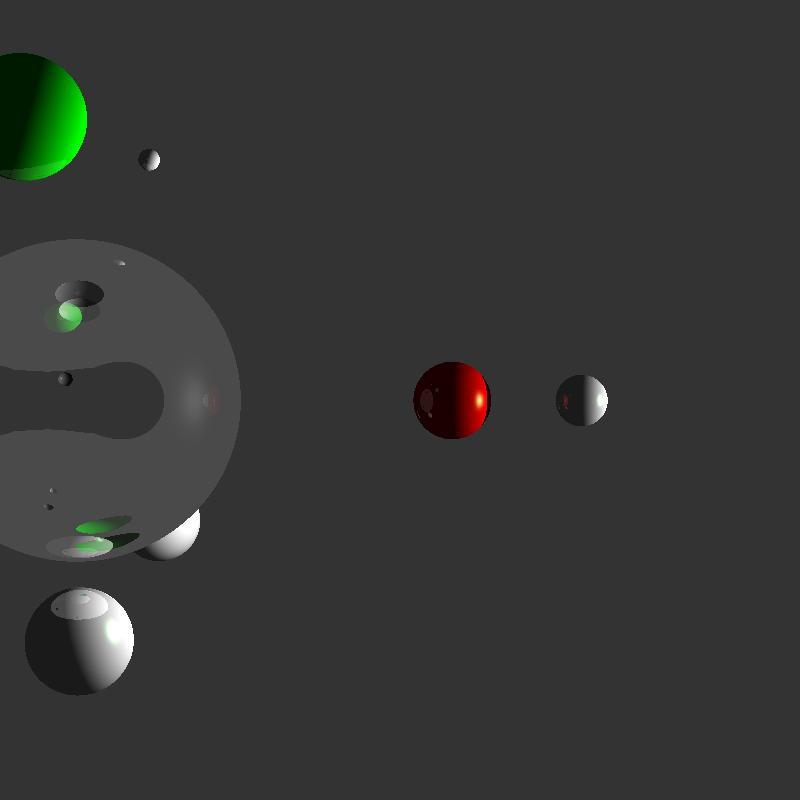
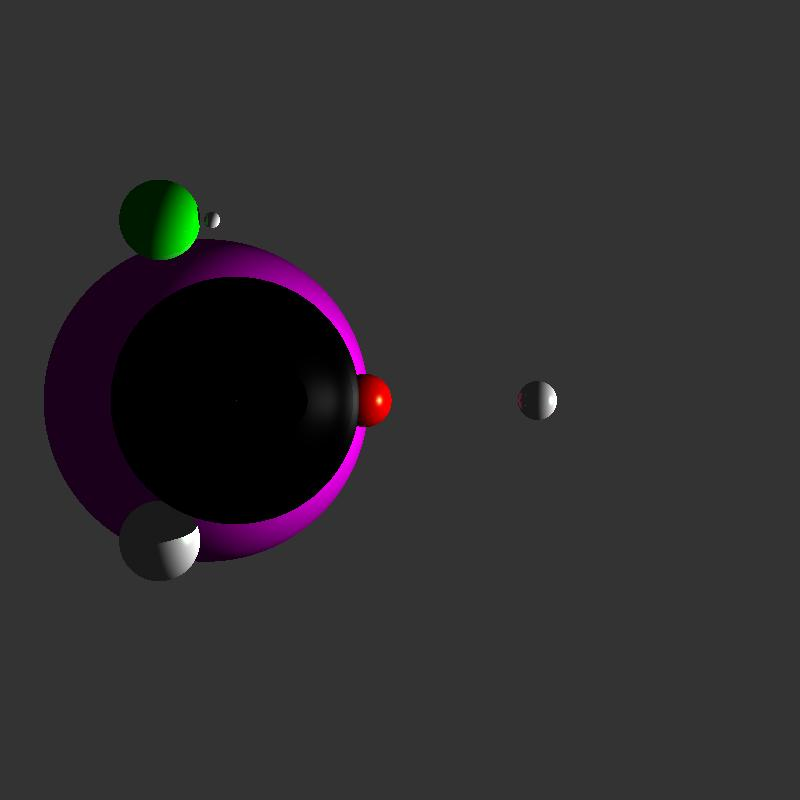
coomit

Changed region(s): [[0.0312, 0.1875, 0.625, 0.875], [0.0, 0.0625, 0.125, 0.25], [0.6562, 0.4688, 0.7812, 0.5312]]

diff --git a/RayTracer/src/shader/RefractionShader.java b/RayTracer/src/shader/RefractionShader.java
@@ -1,5 +1,6 @@
 package shader;
 
+import graphic_object.GraphicObject.ShapeType;
 import raytracer.CollisionInstance;
 import raytracer.Ray;
 import raytracer.RayTracer;
@@ -15,15 +16,25 @@ public class RefractionShader extends Shader{
 	@Override
 	public RColor doShader(RayTracer tracer, CollisionInstance collisionInfo, Ray _ray, int currentDepth) {
 		Vector normal = collisionInfo.getClosestObject().getNormal(collisionInfo.getIntersection()).normalize();
-		
-		//float r = collisionInfo.getClosestObject().getRefractionMaterial();
-		//float c = normal.multiplyByConstant(-1.0f).dotProduct(_ray.getRay().normalize());
-		//Vector refraction = _ray.getRay().normalize().multiplyByConstant(r);
-		//Vector a = normal.multiplyByConstant((r*c - (float)Math.sqrt(1 - (float)Math.pow(r, 2) * (1 - (float)Math.pow(c, 2)))));
-		//refraction = refraction.add(a);
+
 		Vector reflection = null;
 		if(!_ray.isInsideShape()){
 			// ===================  I need to be sure I'm doing this right.
+			float numerator = normal.dotProduct(_ray.getRay().normalize().invert());
+			float denominator = normal.getMagnitude() * _ray.getRay().normalize().invert().getMagnitude();
+			float angle = (float)Math.acos(numerator / denominator);
+			
+			Vector M = normal.multiplyByConstant((float)Math.cos(angle));
+			M = M.subtract(_ray.getRay().normalize().invert());
+			M = M.divideByConstant((float)Math.sin(angle)).normalize();
+			
+			float angleOfRefraction = (float)Math.asin(collisionInfo.getClosestObject().getRefractionMaterialOutside() * (float)Math.sin(angle) / collisionInfo.getClosestObject().getRefractionMaterialInside());
+			
+			Vector T = M.multiplyByConstant((float)Math.sin(angleOfRefraction));
+			reflection = T.subtract(normal.multiplyByConstant((float)Math.cos(angleOfRefraction))).normalize();
+			
+		}
+		else{
 			float numerator = normal.dotProduct(_ray.getRay().normalize());
 			float denominator = normal.getMagnitude() * _ray.getRay().normalize().getMagnitude();
 			float angle = (float)Math.acos(numerator / denominator);
@@ -32,15 +43,11 @@ public class RefractionShader extends Shader{
 			M = M.subtract(_ray.getRay().normalize());
 			M = M.divideByConstant((float)Math.sin(angle)).normalize();
 			
-			float angleOfRefraction = (float)Math.asin((float)Math.sin(angle) / collisionInfo.getClosestObject().getRefractionMaterial());
+			float angleOfRefraction = (float)Math.asin(collisionInfo.getClosestObject().getRefractionMaterialInside() * (float)Math.sin(angle) / collisionInfo.getClosestObject().getRefractionMaterialOutside());
 			
-			// THIS SHIT AINT WORKING...VVVVVVVVVVVVVVVVVVVVVVVVVVVVVVVVVVVVVVV
 			Vector T = M.multiplyByConstant((float)Math.sin(angleOfRefraction));
-			reflection = T.subtract(normal.multiplyByConstant((float)Math.cos(angleOfRefraction))).normalize();
-		}
-		else{
-			// ============  need to figure out how to cast the right ray.
-			reflection = normal;
+			reflection = T.subtract(normal.multiplyByConstant((float)Math.cos(angleOfRefraction)));
+
 		}
 		Ray transmissionRay = new Ray();
 		transmissionRay.setRay(reflection);
@@ -49,11 +56,15 @@ public class RefractionShader extends Shader{
 		transmissionRay.setInitialPos(collisionInfo.getIntersection());
 		transmissionRay.setType(RayType.TRANSMISSION);
 		
-		if(!_ray.isInsideShape()){
+		///transmissionRay.setPreviousRay(_ray.getRay());
+		
+		if(!_ray.isInsideShape() && collisionInfo.getClosestObject().getShapeType() == ShapeType.SPHERE){
 			transmissionRay.setInsideShape(true);
 		}
+		RColor remainingReflection = collisionInfo.getClosestObject().getReflective().substractConstantByColor(1.0f);
 		
-		return tracer.rayTrace(transmissionRay, currentDepth);
+		//return collisionInfo.getClosestObject().getTransparency().multiply(tracer.rayTrace(transmissionRay, currentDepth));
+		return collisionInfo.getClosestObject().getTransparency().multiply(tracer.rayTrace(transmissionRay, currentDepth));
 	}
 
 }

diff --git a/RayTracer/src/graphic_object/GraphicObject.java b/RayTracer/src/graphic_object/GraphicObject.java
@@ -29,7 +29,8 @@ public abstract class GraphicObject{
 	
 	private float phongConstant;
 	
-	private float refractionMaterial;
+	private float refractionMaterialInside;
+	private float refractionMaterialOutside;
 
 	
 	/**
@@ -44,7 +45,8 @@ public abstract class GraphicObject{
 		this.specularHighlight = new RColor(0.0f, 0.0f, 0.0f);
 		this.setTransparency(new RColor(0.0f, 0.0f, 0.0f));
 		this.phongConstant = 0.0f;
-		this.refractionMaterial = 0.0f;
+		this.refractionMaterialInside = 0.0f;
+		this.refractionMaterialOutside = 0.0f;
 	}
 	
 	/**
@@ -103,19 +105,27 @@ public abstract class GraphicObject{
 		this.massType = massType;
 	}
 
-	public float getRefractionMaterial() {
-		return refractionMaterial;
-	}
-
-	public void setRefractionMaterial(float refractionMaterial) {
-		this.refractionMaterial = refractionMaterial;
-	}
-
 	public RColor getTransparency() {
 		return transparency;
 	}
 
 	public void setTransparency(RColor transparency) {
 		this.transparency = transparency;
+	}
+
+	public float getRefractionMaterialInside() {
+		return refractionMaterialInside;
+	}
+
+	public void setRefractionMaterialInside(float refractionMaterialInside) {
+		this.refractionMaterialInside = refractionMaterialInside;
+	}
+
+	public float getRefractionMaterialOutside() {
+		return refractionMaterialOutside;
+	}
+
+	public void setRefractionMaterialOutside(float refractionMaterialOutside) {
+		this.refractionMaterialOutside = refractionMaterialOutside;
 	}
 }

diff --git a/RayTracer/src/util/SceneParser.java b/RayTracer/src/util/SceneParser.java
@@ -254,8 +254,10 @@ public class SceneParser {
 					break;
 				
 				case "Refraction":
-					float refraction = Float.parseFloat(reader.next());
-					s.setRefractionMaterial(refraction);
+					float refractionInside = Float.parseFloat(reader.next());
+					float refractionOutside = Float.parseFloat(reader.next());
+					s.setRefractionMaterialInside(refractionInside);
+					s.setRefractionMaterialOutside(refractionOutside);
 					break;
 					
 				default:
@@ -350,8 +352,10 @@ public class SceneParser {
 					break;
 				
 				case "Refraction":
-					float refraction = Float.parseFloat(reader.next());
-					p.setRefractionMaterial(refraction);
+					float refractionInside = Float.parseFloat(reader.next());
+					float refractionOutside = Float.parseFloat(reader.next());
+					p.setRefractionMaterialInside(refractionInside);
+					p.setRefractionMaterialOutside(refractionOutside);
 					break;
 					
 				default:

diff --git a/RayTracer/src/driver/Driver.java b/RayTracer/src/driver/Driver.java
@@ -11,7 +11,7 @@ public class Driver {
 		
 		//Scene s = SceneParser.buildScene("scenes//SceneII.rayTracing");
 		Scene s = SceneParser.buildScene("scenes//diffuse.rayTracing");
-		RayTracer tracer = new RayTracer(s, 800, 800, 5);
+		RayTracer tracer = new RayTracer(s, 800, 800, 7);
 		System.out.println("Tracing...");
 		tracer.trace();
 		System.out.println("Drawing...");

diff --git a/RayTracer/src/util/RColor.java b/RayTracer/src/util/RColor.java
@@ -53,6 +53,10 @@ public class RColor {
 		return this;
 	}
 	
+	public RColor substractConstantByColor(float constant){
+		return new RColor(constant - this.R, constant - this.G, constant - this.B);
+	}
+	
 	public RColor multiplyByConstant(float constant){
 		return new RColor(this.R * constant, this.G * constant, this.B * constant);
 	}

diff --git a/RayTracer/src/util/Vector.java b/RayTracer/src/util/Vector.java
@@ -118,4 +118,8 @@ public class Vector {
 	public Vector divideByConstant(float constant){
 		return new Vector(this.x / constant, this.y / constant, this.z / constant);
 	}
+	
+	public Vector invert(){
+		return new Vector(-this.x, -this.y, -this.z);
+	}
 }
